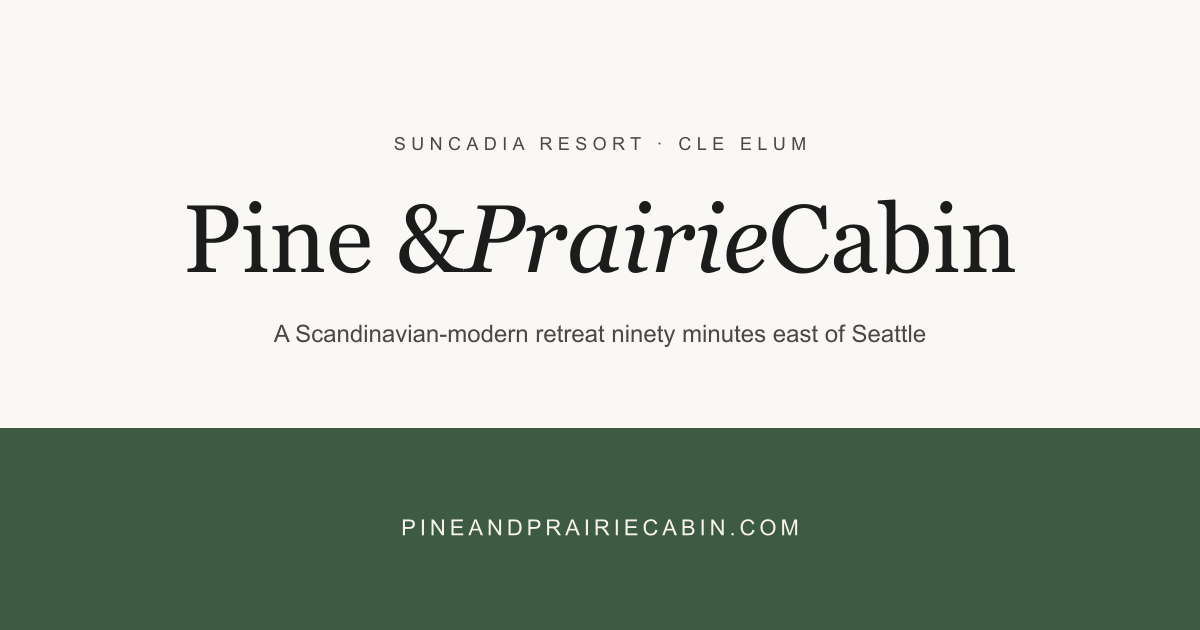
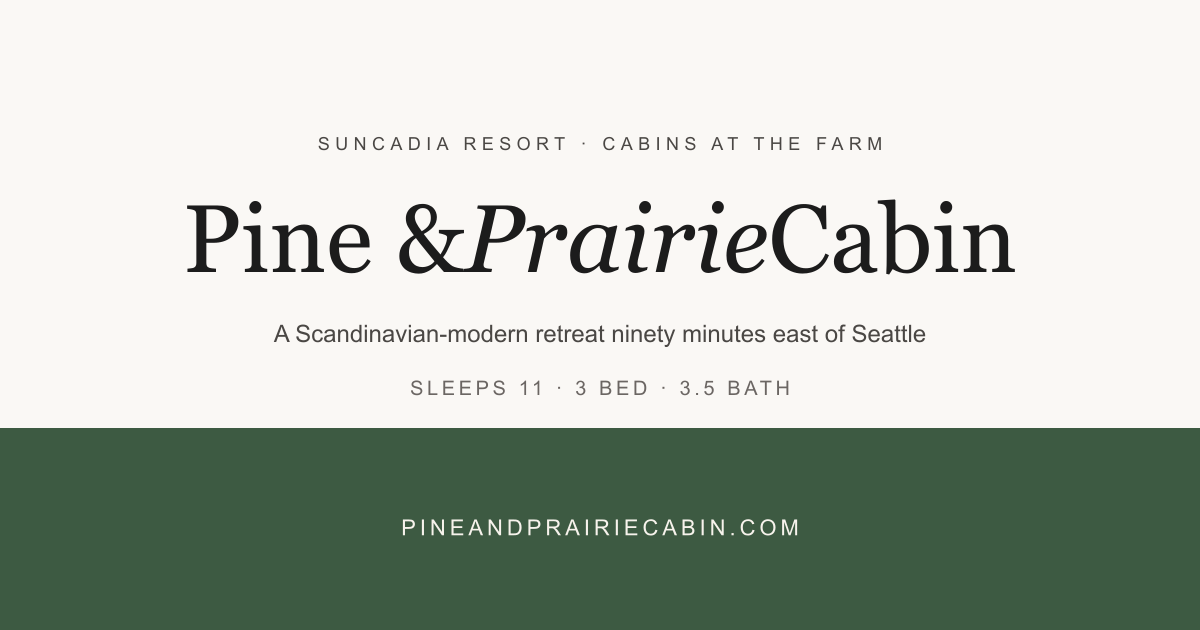
Strip ADA caveat; weave game room & MIL suite into Story; new FAQ entries; refresh OG
User confirmed 50 Harmony is the correct unit and asked to drop the ADA
service-animal mention since the property doesn't accept service animals
beyond the "no pets" policy either.

Changes:
- faq.ts (pets answer): "No - this is a pet-free home. Service animals
  are welcome in accordance with the ADA." -> "No - this is a pet-free home."
- site.ts (specs.petPolicy): "No pets - Service animals only per ADA" -> "No pets"
- Story.astro: added a new middle paragraph weaving in the MIL suite ("grandparents
  or teenagers - their own door, their own bath, their own coffee maker") and the
  heated garage game room ("Pac-Man, skee-ball, foosball, XL Jenga - where everyone
  tends to end up after dinner"), making the multigenerational angle the marketing
  hook rather than just specs.
- faq.ts: added two new entries -- "What's in the game room?" and "Tell me about
  the Mother-in-Law suite." -- since these are the two distinguishing features.
- generate-og.mjs: eyebrow now "SUNCADIA RESORT - CABINS AT THE FARM" (was
  "CLE ELUM"); added "SLEEPS 11 - 3 BED - 3.5 BATH" specs line below tagline.
  Regenerated public/og.png.
- smoke-corrections.ps1: extended to cover Story copy, new FAQ entries, OG file,
  and a dist-wide check that no "ADA" / "service animal" references remain.

Verification: 14/14 DOM checks pass, 4/4 Story checks, 4/4 new FAQ checks,
no ADA references anywhere in dist, og.png regenerated (54822 bytes).
Build clean (11 pages, 2.12s).

Changed region(s): [[0.2467, 0.2111, 0.74, 0.2413], [0.3392, 0.6032, 0.6783, 0.6333]]

diff --git a/src/data/faq.ts b/src/data/faq.ts
@@ -18,7 +18,7 @@ export const faq: FAQItem[] = [
   },
   {
     q: 'Are pets welcome?',
-    a: 'No — this is a pet-free home. Service animals are welcome in accordance with the ADA.',
+    a: 'No — this is a pet-free home.',
   },
   {
     q: 'Are there resort fees?',
@@ -35,5 +35,13 @@ export const faq: FAQItem[] = [
   {
     q: 'Is the hot tub really year-round?',
     a: 'Yes. It stays heated through winter — soaking in the snow is honestly the best part of a January stay.',
+  },
+  {
+    q: 'What\'s in the game room?',
+    a: 'The heated garage doubles as a game room: a Pac-Man cabinet, skee-ball, foosball, and XL Jenga. It\'s become the place everyone ends up after dinner — adults and kids both.',
+  },
+  {
+    q: 'Tell me about the Mother-in-Law suite.',
+    a: 'It\'s a self-contained apartment above the garage with its own private entrance, full bath, kitchenette, TV lounge, and a kid-friendly bunk room (two twin-over-full bunks plus a full sleeper sofa). Perfect for the in-laws, the teenagers, or a nanny who wants their own space.',
   },
 ];

diff --git a/src/data/site.ts b/src/data/site.ts
@@ -29,7 +29,7 @@ export const specs = {
   squareFeet: 2469,
   neighborhood: 'Cabins at the Farm',
   view: 'Valley View',
-  petPolicy: 'No pets · Service animals only per ADA',
+  petPolicy: 'No pets',
   parkingSpots: 'Self-parking · Accessible parking on site',
   // Distinguishing on-property features called out in the Suncadia listing.
   standoutFeatures: [
